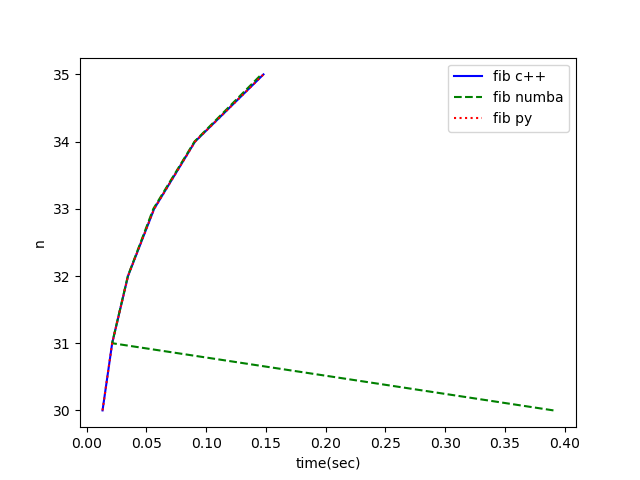
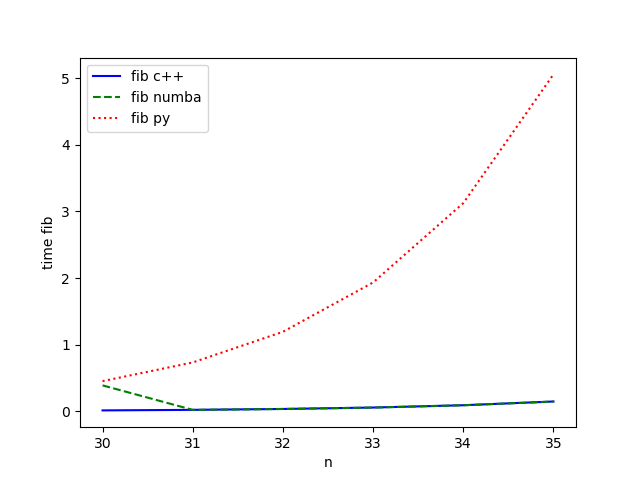
fixed duplicate plots and inverted x and y axis

diff --git a/MA4/MA4_files/MA4_2.py b/MA4/MA4_files/MA4_2.py
@@ -48,12 +48,12 @@ def main():
 
 
 	fig, ax = plt.subplots()
-	ax.plot(time_fibc, ns, linestyle='-', color='blue', label='fib c++')
-	ax.plot(time_numba, ns, linestyle='--', color='green', label='fib numba')
-	ax.plot(time_fibc, ns, linestyle=':', color='red', label='fib py')
+	ax.plot(ns, time_fibc, linestyle='-', color='blue', label='fib c++')
+	ax.plot(ns, time_numba, linestyle='--', color='green', label='fib numba')
+	ax.plot(ns, time_fibpy, linestyle=':', color='red', label='fib py')
 
 	plt.legend()
-	ax.set(xlabel='time(sec)', ylabel='n')
+	ax.set(xlabel='n', ylabel='time fib')
 	plt.savefig('fib.png')
 	plt.close()
 
